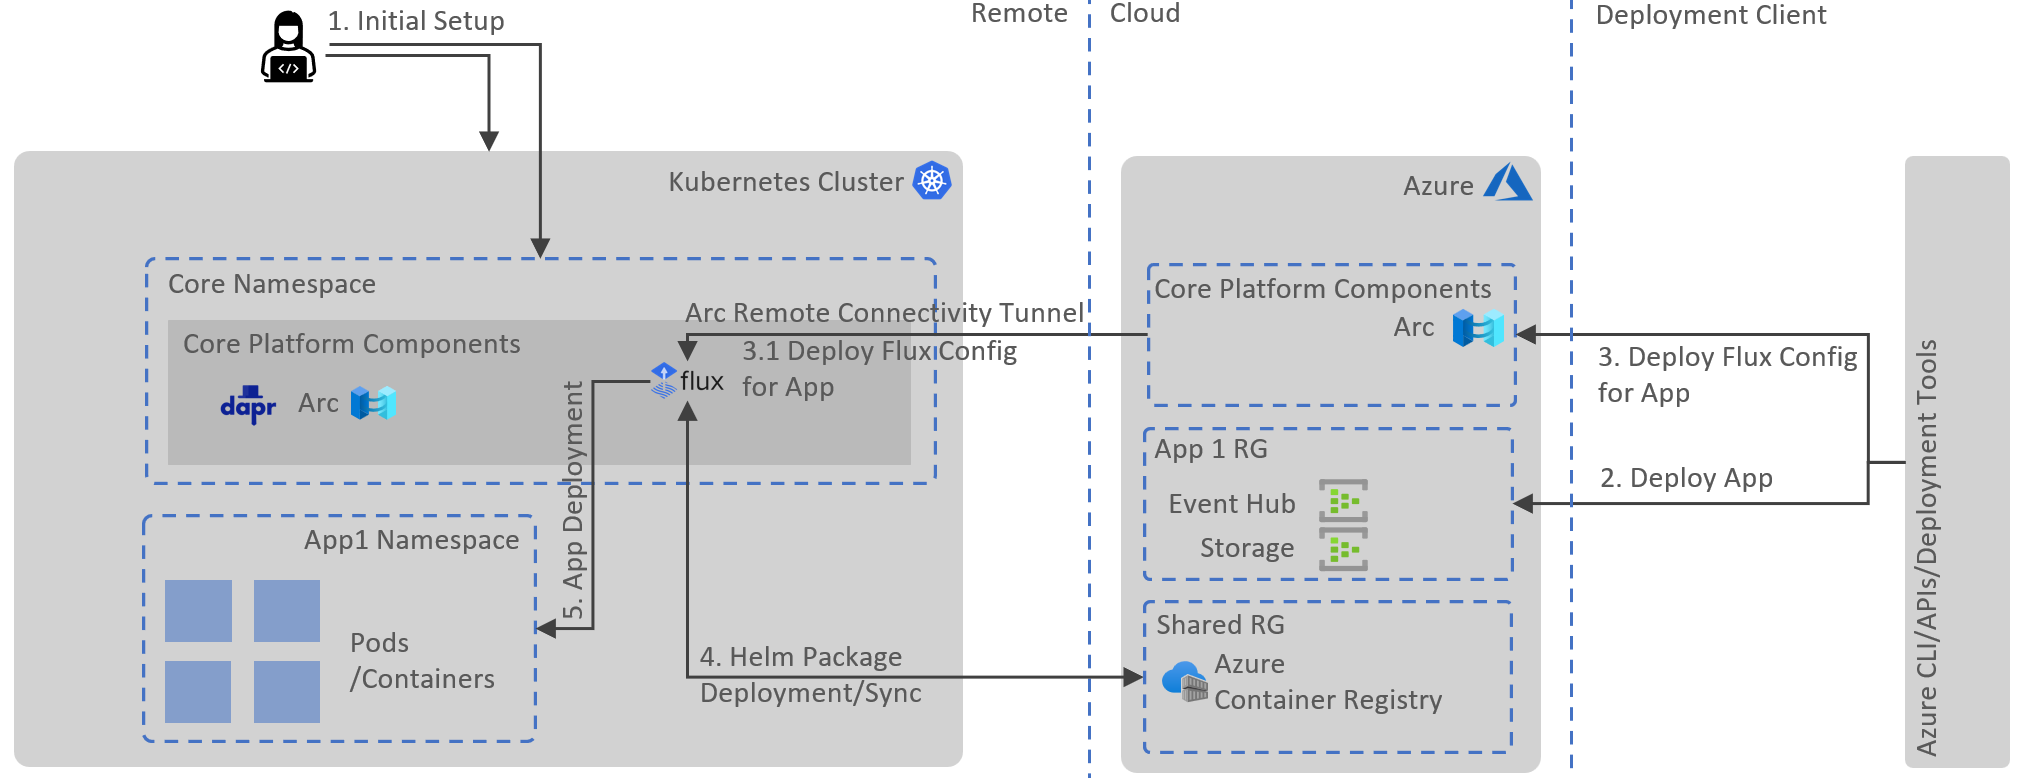
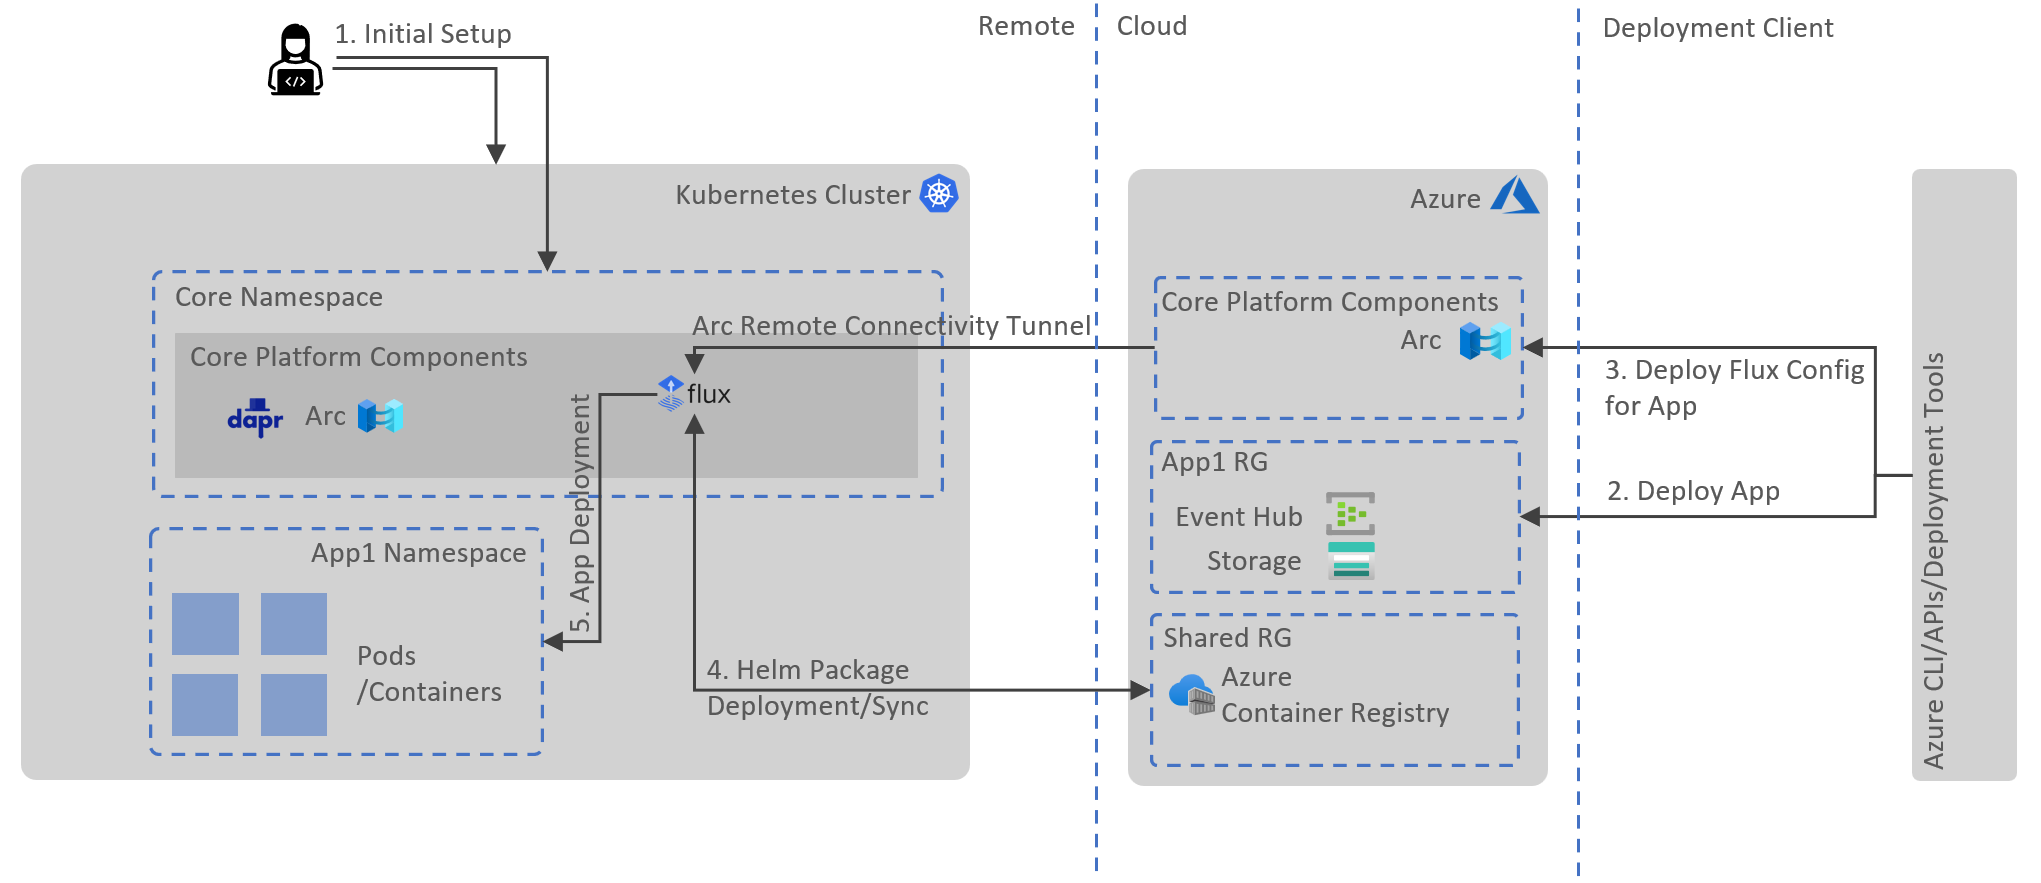
Updated deploy diagram and made CNAB optional

diff --git a/README.md b/README.md
@@ -60,14 +60,14 @@ Solution components are split into three layers from deployment perspective:
     * Core Infrastructure Package for Demo on Azure cloud.
   
 2. **Core Platform Components** (Dapr, Arc and Flux extensions on Kubernetes).
-   This deployment is a responsibility of customer's devops team, we will provide a pre-built deployment package (Helm/CNAB-Porter) which can be run by customer to create resources (Core Platform Components) in the Kubernetes cluster. Pre-Built Packages Available:
+   This deployment is a responsibility of customer's devops team, we will provide a pre-built deployment package/scripts which can be run by customer to create resources (Core Platform Components) in the Kubernetes cluster. Pre-Built Packages Available:
     * Core Platform Package for Kubernetes in Cloud/On-prem.
   
 3. **Application Components/Package** (Cloud and Kubernetes artifacts for the application).
-   This deployment is a responsibility of customer's devops team, customer will use standard CNAB bundle to package application components which may span across Azure (App1 RG) and Kubernetes on the edge (App1 Namespace). The edge component will comprise of a Flux configuration manifest which in turn will configure Flux extension on Kubernetes to sync and deploy remote/local Helm package. Pre-Built Packages Available:
+   This deployment is a responsibility of customer's devops team, customer will use scripts to deploy application components which may span across Azure (App1 RG) and Kubernetes on the edge (App1 Namespace). The edge component will comprise of a Flux configuration manifest which in turn will configure Flux extension on Kubernetes to sync and deploy remote/local Helm package. Pre-Built Packages Available:
     * Sample Application Package for Accelerator in Cloud/Hybrid mode.
 
-Deployment of the above artifacts may require multiple tools, this is where we can attempt to make use of [CNAB bundles and Porter](https://porter.sh/). Porter can package Helm charts, az cmds and other scripts to deploy the solution and its dependencies.
+Deployment of the above artifacts may require multiple tools, this is where we can potentially attempt to make use of [CNAB bundles and Porter](https://porter.sh/). Porter can package Helm charts, az cmds and other scripts to deploy the solution and its dependencies.
 
 ## Outstanding (Work in Progress)
 
